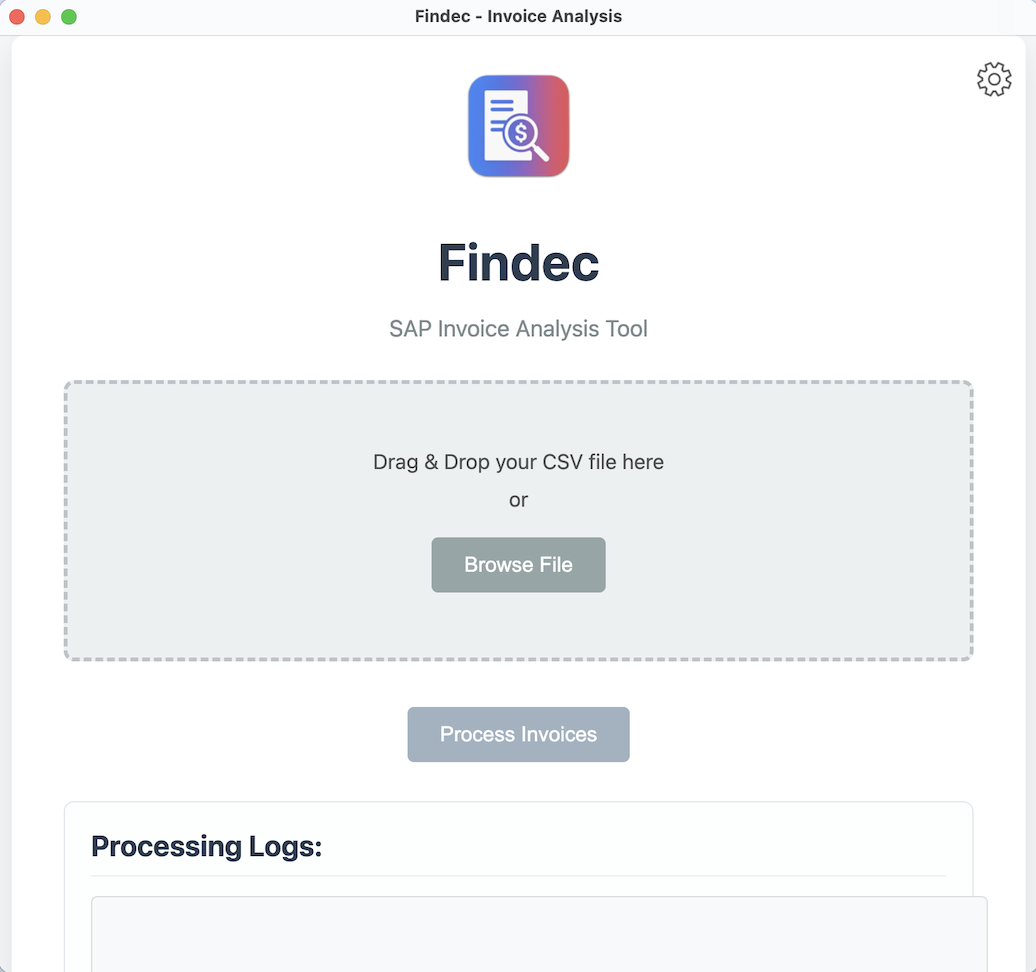
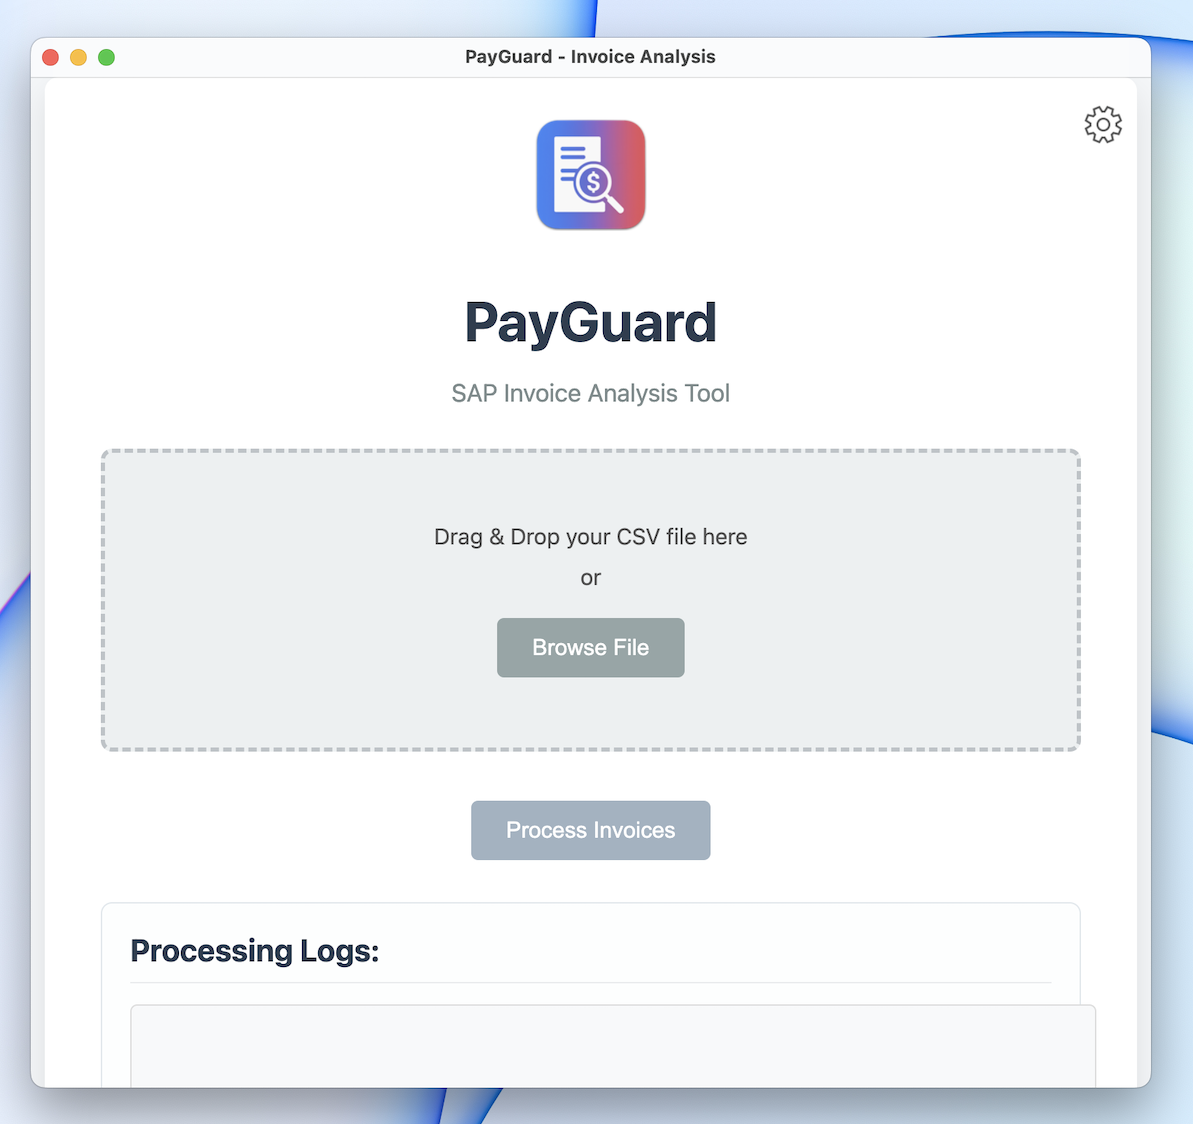
updated image

diff --git a/README.md b/README.md
@@ -2,6 +2,11 @@
 
 PayGuard is an intelligent SAP invoice analysis tool that uses SBERT and LLM models to identify potential duplicate invoices.
 
+**PayGuard Website**
+
+You can find at our website the business and can manage you JSON output file:
+https://payguard-duplicate-detect.lovable.app/
+
 <p align="center">
   <img src="assets/app_image.png" alt="App Image">
 </p>
